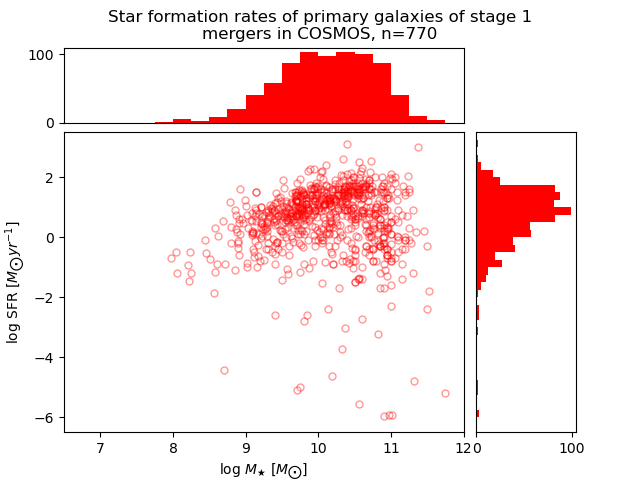
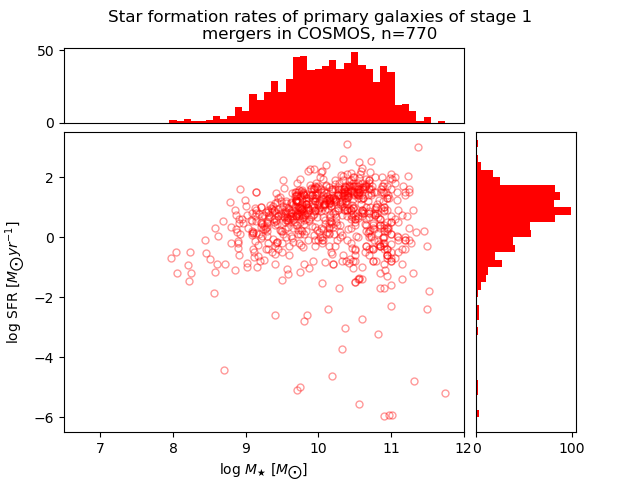
Changed bin size of x histogram

Changed region(s): [[0.375, 0.0938, 0.6875, 0.25], [0.0312, 0.0938, 0.0938, 0.125], [0.3438, 0.2188, 0.375, 0.25]]

diff --git a/plots/plotting_code/main_plots/sfr_mass.py b/plots/plotting_code/main_plots/sfr_mass.py
@@ -125,9 +125,10 @@ def generate_separate(data):
         xymax = max(np.max(np.abs(j[0])), np.max(np.abs(j[1])))
         lim = (int(xymax/binwidth) + 1) * binwidth
 
-        bins = np.arange(-lim, lim + binwidth, binwidth)
-        ax_hist_x.hist(j[0], bins=bins, color=colours[n])
-        ax_hist_y.hist(j[1], bins=bins, color=colours[n], orientation='horizontal')
+        bins_x = np.arange(-lim, lim + binwidth, 0.1)
+        bins_y = np.arange(-lim, lim + binwidth, binwidth)
+        ax_hist_x.hist(j[0], bins=bins_x, color=colours[n])
+        ax_hist_y.hist(j[1], bins=bins_y, color=colours[n], orientation='horizontal')
         plt.savefig(path+f'/plots/output/stage_{n+1}')
         plt.show()
 
